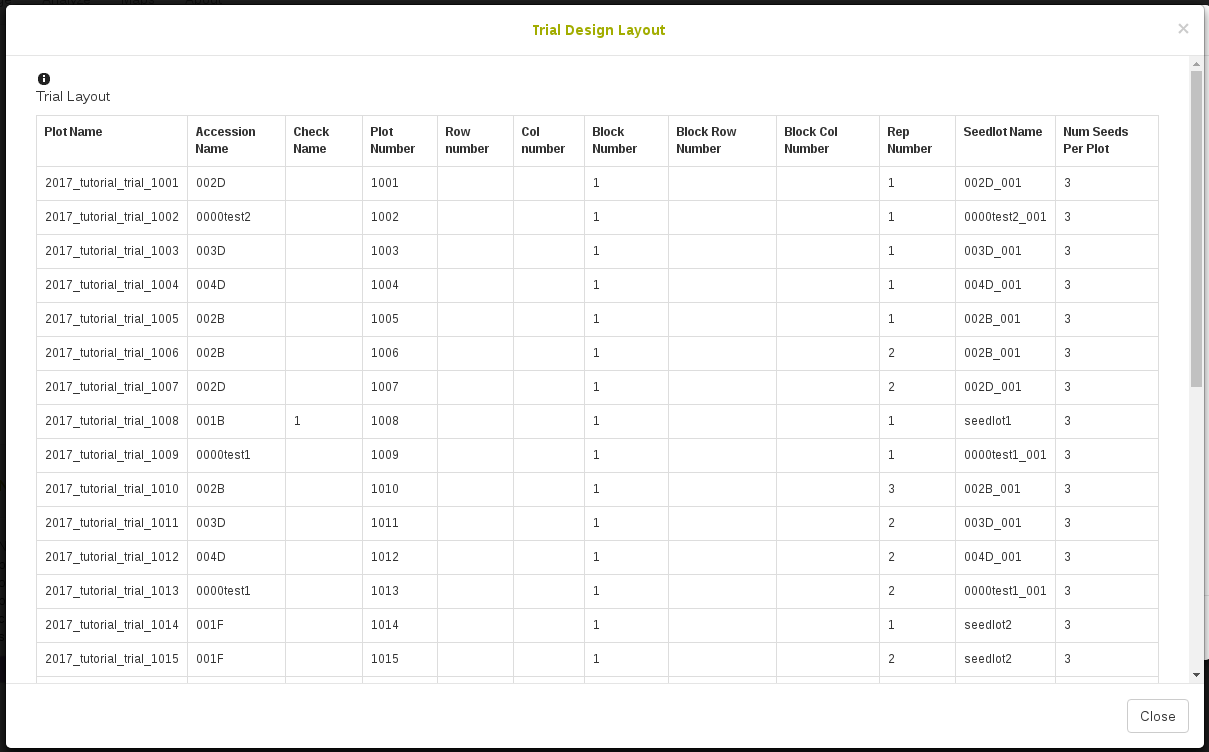
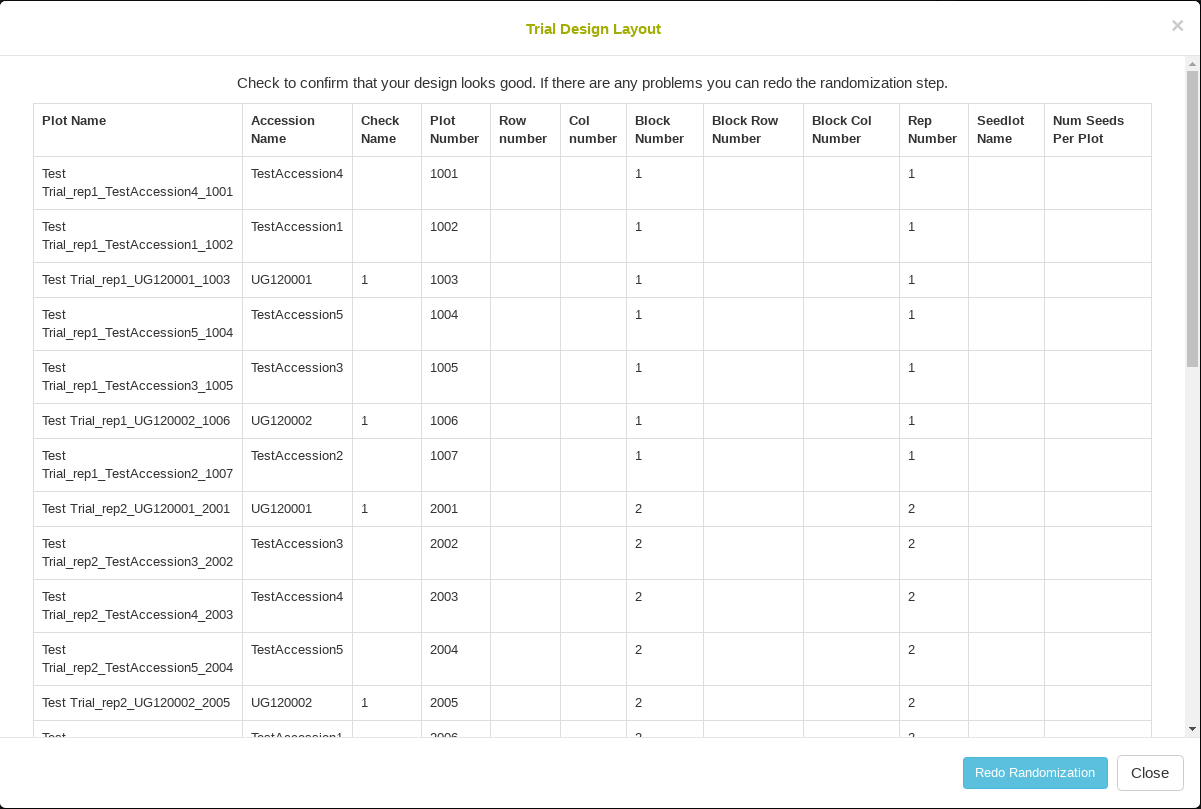
add redo randomization option to trial docs

diff --git a/docs/03_managing_breeding_data/03_07.md b/docs/03_managing_breeding_data/03_07.md
@@ -110,7 +110,7 @@ Trial name, breeding program, location, year and description of the trial are ma
 
 ![]({{"assets/images/trial_create_confirm_dialog.png" | relative_url }})
 
--   An example of the “Trial Design Layout” page
+-   An example of the “Trial Design Layout” page. If you spot any problems at this point you can use the 'Redo Randomization' button to generate a different randomization.
 
 ![]({{"assets/images/trial_create_confirm_layout_dialog.png" | relative_url }})
 
